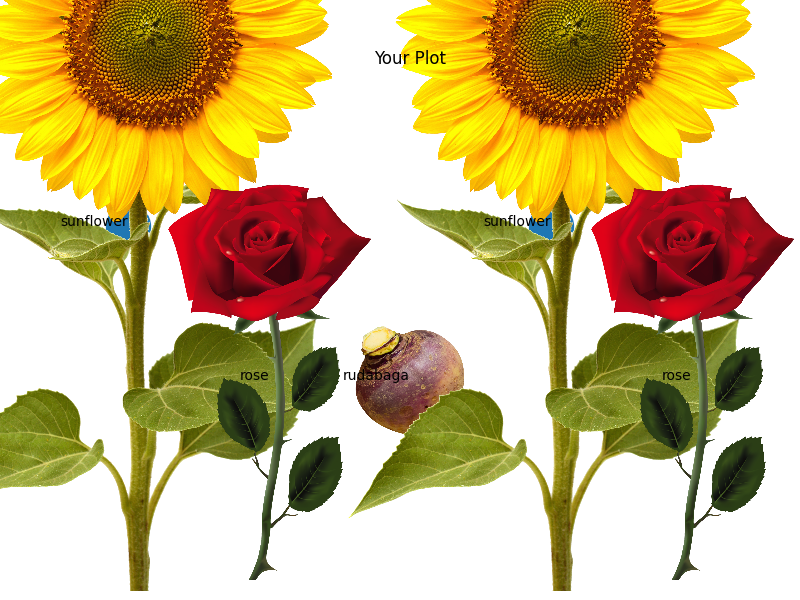
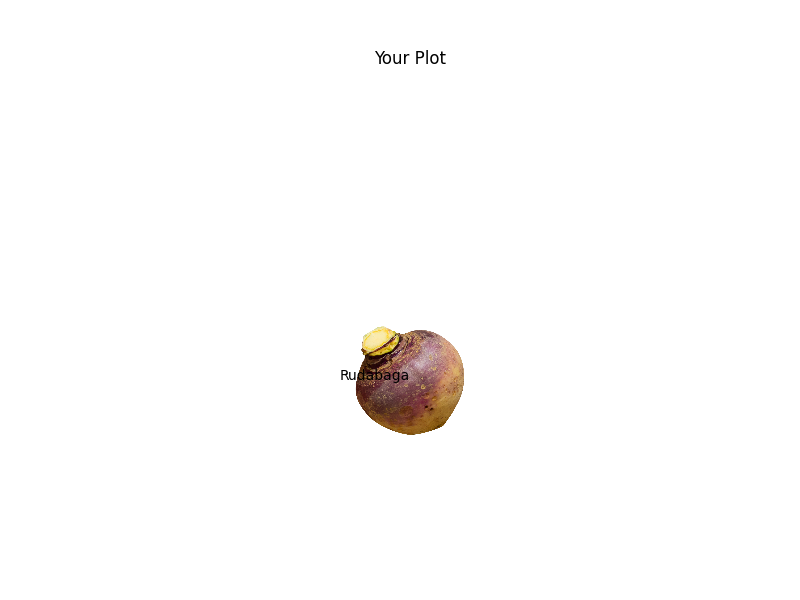
finished?

diff --git a/server.js b/server.js
@@ -1,6 +1,7 @@
 const express = require('express');
 const cors = require('cors');
 const path = require('path');
+const bodyParser = require('body-parser');
 const { MongoClient } = require('mongodb');
 
 const app = express();
@@ -11,15 +12,13 @@ app.use(bodyParser.json());
 
 const uri = 'mongodb+srv://spartahack9:msu@plantdatabase.wvg4q13.mongodb.net/?retryWrites=true&w=majority';
 const client = new MongoClient(uri, {});
-const bodyParser = require('body-parser');
 const { spawn } = require('child_process');
 
 app.post('/api/process-list', (req, res) => {
-    const selectedItems = req.body;
-    console.log(selectedItems);
-    /*const pythonProcess = spawn('python', ['vis.py', JSON.stringify(selectedItems)]);
-    
-    child.stdin.setEncoding('utf-8');
+    let selectedItems = req.body;
+    let arguments = JSON.stringify(selectedItems);
+    const pythonProcess = spawn('python', ['vis.py']);
+
     // Handle Python script error
     pythonProcess.on('error', (error) => {
       console.error('Python script error:', error.message);
@@ -27,7 +26,7 @@ app.post('/api/process-list', (req, res) => {
     });
     
     // Handle process exit
-    pythonProcess.on('exit', (code) => {
+    pythonProcess.on('close', (code) => {
       if (code !== 0) {
         console.error(`Python script exited with code ${code}`);
         res.status(500).json({ error: 'Internal Server Error' });
@@ -37,10 +36,9 @@ app.post('/api/process-list', (req, res) => {
       }
     });
 
-    pythonProcess.on('error', (error) => {
-        console.error('Python script error:', error.message);
-        res.status(500).json({ error: 'Internal Server Error' });
-    });*/
+    pythonProcess.stdin.setEncoding('utf-8');
+    pythonProcess.stdin.write(arguments);
+    pythonProcess.stdin.end();
   });
   
 

diff --git a/vis.py b/vis.py
@@ -8,7 +8,7 @@ from flask import Flask, request, jsonify
 
 def create_plants_df(selected_plants):
     # List of plants that go on upper level
-    tall_plants = ['sunflower']
+    tall_plants = ['summersquash', 'wintersquash']
 
     # Create plants dataFrame
     plant_num = len(selected_plants)
@@ -84,7 +84,6 @@ def update_pl(selected_plants):
 
 if __name__ == '__main__':
     request = json.loads(input())
-
     update_pl(request)
     '''
     # Example of updating the plot
